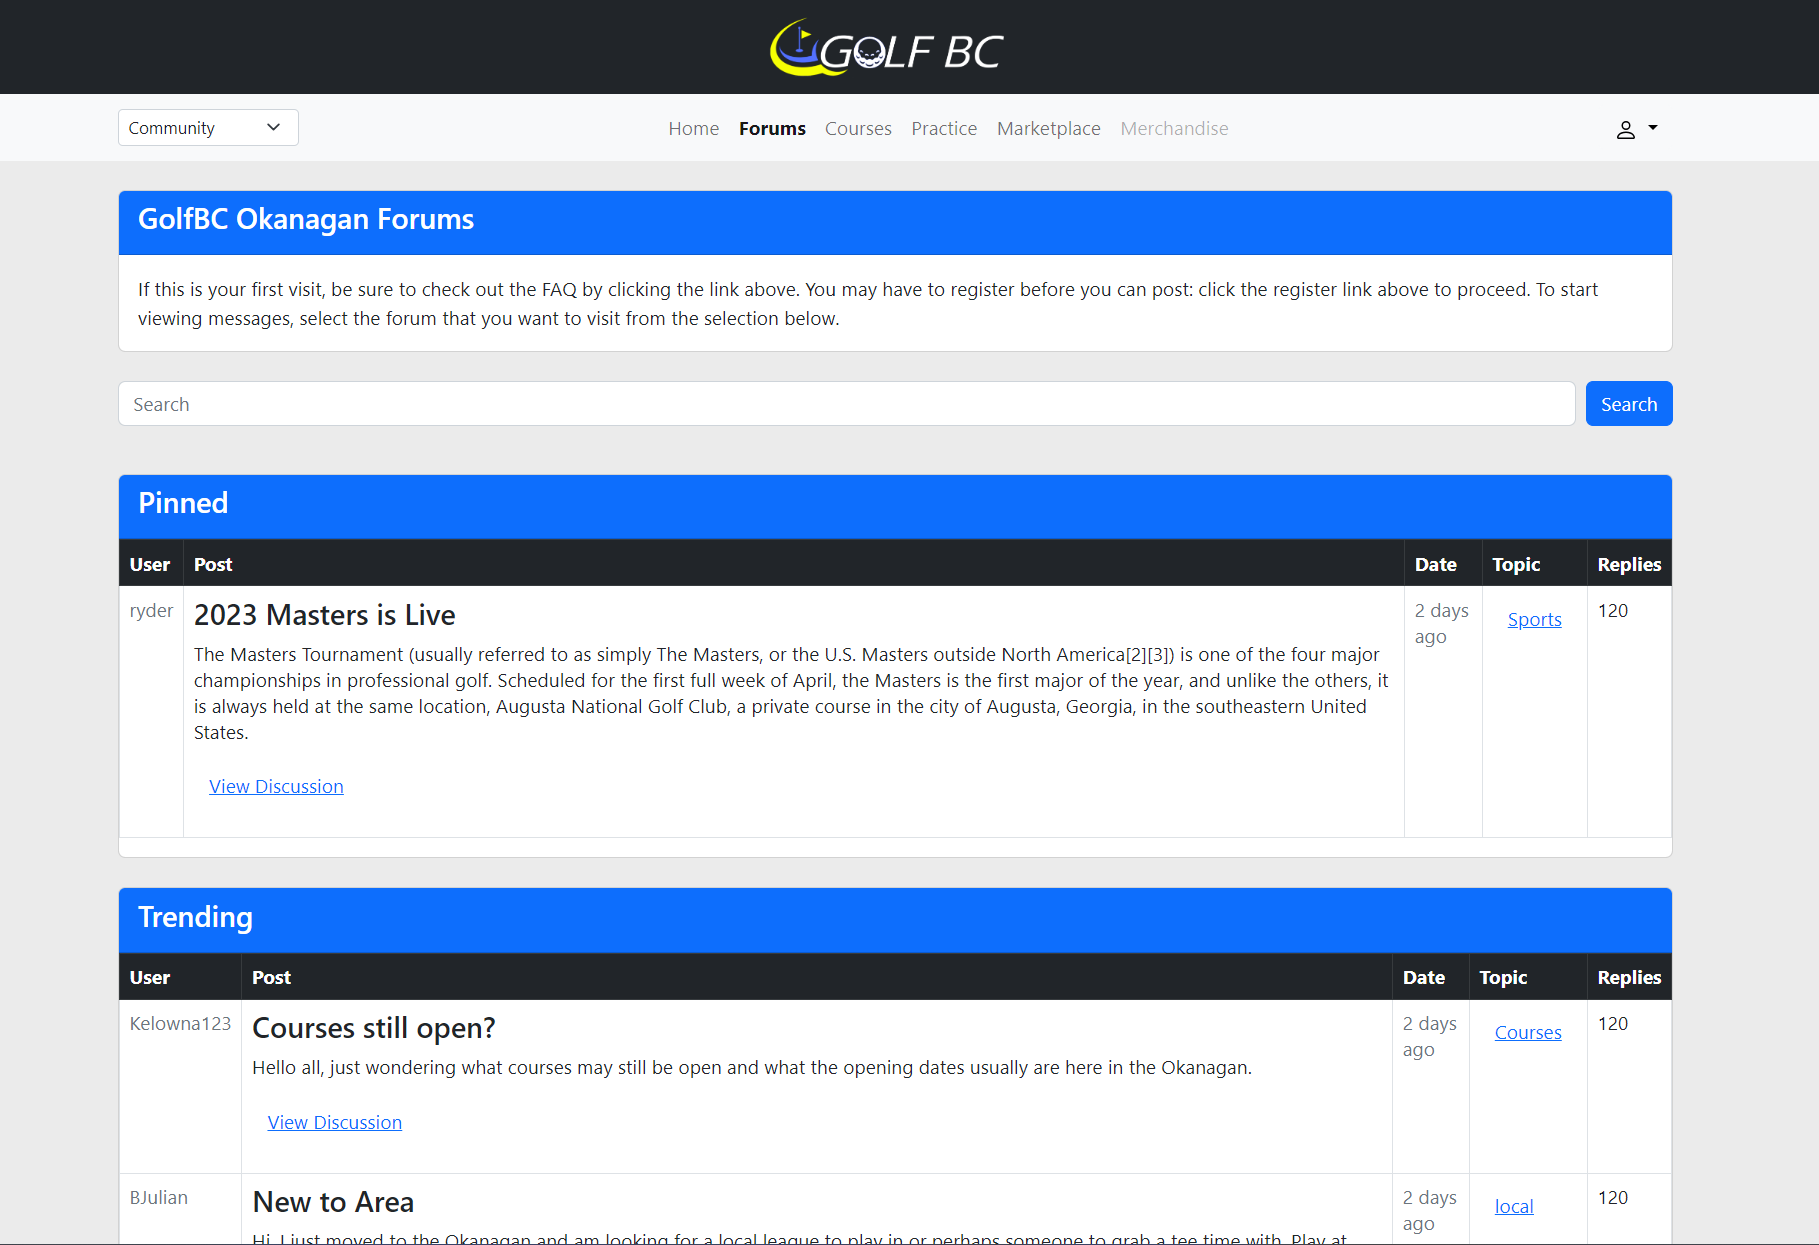
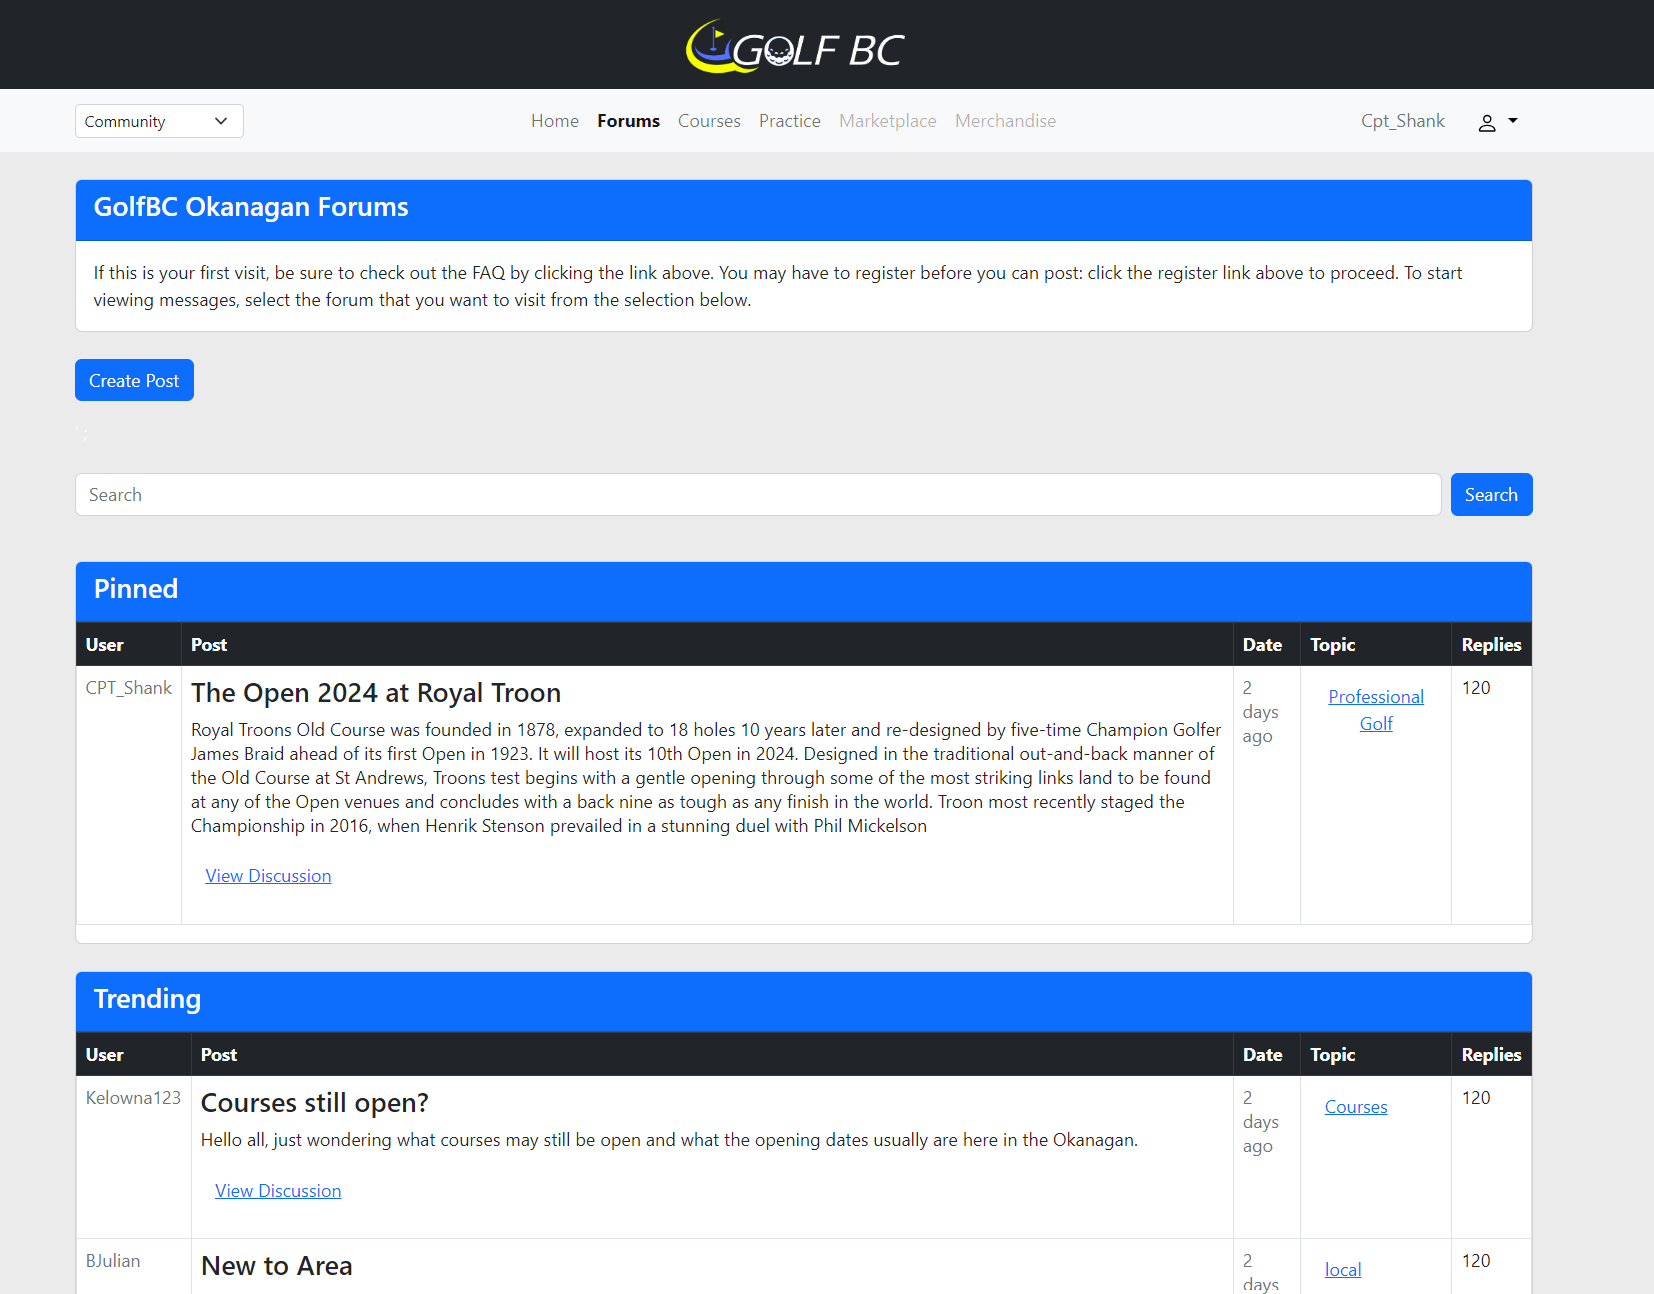
Update profile n forums
Changed the profile dashboard, not functional yet. View post and commenting updates.

diff --git a/client/profile.css b/client/profile.css
@@ -1,0 +1,125 @@
+body{margin-top:20px;
+    background:#eee;
+    }
+    .details{
+        font-weight: bold;
+    }
+    .profile-widget {
+      position: relative;
+    }
+    .profile-widget .image-container {
+      background-size: cover;
+      background-position: center;
+      padding: 190px 0 10px;
+    }
+    .profile-widget .image-container .profile-background {
+      height: auto;
+    }
+    .profile-widget .image-container .avatar {
+      width: 240px;
+      height: 240px;
+      border-radius: 50%;
+      margin: 0 auto -60px;
+      display: block;
+    }
+    .profile-widget .details {
+      padding: 50px 15px 15px;
+      text-align: center;
+    }
+    
+    /* Component: Mini Profile Widget */
+    .mini-profile-widget .image-container .avatar {
+      width: 180px;
+      height: 180px;
+      display: block;
+      margin: 0 auto;
+      border-radius: 50%;
+      background: white;
+      padding: 4px;
+      border: 1px solid #dddddd;
+    }
+    .mini-profile-widget .details {
+      text-align: center;
+    }
+    
+    /* Component: Panel */
+    .panel {
+      border-radius: 0;
+      margin-bottom: 30px;
+      width: 100%;
+    }
+    .panel.solid-color {
+      color: white;
+    }
+    .panel .panel-heading {
+      border-radius: 0;
+      position: relative;
+    }
+    .panel .panel-heading > .controls {
+      position: absolute;
+      right: 10px;
+      top: 12px;
+    }
+    .panel .panel-heading > .controls .nav.nav-pills {
+      margin: -8px 0 0 0;
+    }
+    .panel .panel-heading > .controls .nav.nav-pills li a {
+      padding: 5px 8px;
+    }
+    .panel .panel-heading .clickable {
+      margin-top: 0px;
+      font-size: 12px;
+      cursor: pointer;
+    }
+    .panel .panel-heading.no-heading-border {
+      border-bottom-color: transparent;
+    }
+    .panel .panel-heading .left {
+      float: left;
+    }
+    .panel .panel-heading .right {
+      float: right;
+    }
+    .panel .panel-title {
+      font-size: 16px;
+      line-height: 20px;
+    }
+    .panel .panel-title.panel-title-sm {
+      font-size: 18px;
+      line-height: 28px;
+    }
+    .panel .panel-title.panel-title-lg {
+      font-size: 24px;
+      line-height: 34px;
+    }
+    .panel .panel-body {
+      font-size: 13px;
+    }
+    .panel .panel-body > .body-section {
+      margin: 0px 0px 20px;
+    }
+    .panel .panel-body > .body-section > .section-heading {
+      margin: 0px 0px 5px;
+      font-weight: bold;
+    }
+    .panel .panel-body > .body-section > .section-content {
+      margin: 0px 0px 10px;
+    }
+    .bg2 {
+      background-image: url('images/courses/9.jpg');
+      background-position: center;
+    }
+    
+    
+    
+    
+    .btn-blue {
+      background-color: #3498db;
+      border-color: #3498db;
+      color: white;
+    }
+    .btn-blue:hover,
+    .btn-blue:visited {
+      background-color: #2980b9;
+      color: white;
+    }

diff --git a/client/forums.php b/client/forums.php
@@ -18,6 +18,78 @@ require('../server/db_connect.php');
     </div>
 </div>
 <br>
+<div class = "text-light">
+<button class="btn btn-primary" type="button" data-bs-toggle="modal" data-bs-target="#xxx">Create Post</button>
+
+        <form>
+        <div class="modal fade" id="xxx" tabindex="-1" aria-labelledby="exampleModalLabel" aria-hidden="true">
+        <div class="modal-dialog modal-dialog-centered">
+            <div class="modal-content bg-dark">
+            <div class="modal-header text-center">
+                <h1 class="modal-title fs-5 text-center w-100" id="exampleModalLabel">Tower Ranch</h1>
+                <button type="button" class="btn-close" data-bs-dismiss="modal" aria-label="Close"></button>
+            </div>
+            <div class="modal-body">
+                <div class = "rating mb-3">
+                    <button id = "1" class="btn m-0 p-0" type="button" value ="1">
+                    <i class="bi bi-star"></i>
+                    <i class ="bi bi-star-fill"></i>
+                    </button>
+                    <button id = "2" class="btn m-0 p-0" type="button" value ="2">
+                    <i class="bi bi-star"></i>
+                    <i class ="bi bi-star-fill"></i>
+                    </button>
+                    <button id = "3" class="btn m-0 p-0" type="button" value ="3">
+                    <i class="bi bi-star"></i>
+                    <i class ="bi bi-star-fill"></i>
+                    </button>
+                    <button id = "4" class="btn m-0 p-0" type="button" value ="4">
+                    <i class="bi bi-star"></i>
+                    <i class ="bi bi-star-fill"></i>
+                    </button>
+                    <button id = "5" class="btn m-0 p-0" type="button" value ="5">
+                    <i class="bi bi-star"></i>
+                    <i class ="bi bi-star-fill"></i>
+                    </button>
+                </div>
+                <input type="hidden" id="finalRate" value="" class="form-control" required>
+                <input type="hidden" id="courseId" value="6" class="form-control" required>
+                <input type="hidden" id="userId" value="ryderv" class="form-control" required>
+                    <div>
+                        <label for="reviewComments" class="form-label"></label>
+                        <textarea maxlength="255" class="form-control bg-dark text-light" id="reviewComments" rows="3" placeholder="Comments regarding course."></textarea>
+                    </div>
+                    <div class=" mt-1 form-text fs-6 text-light text-end">ryderv</div>
+                    <div class="alert alert-danger" role="alert" hidden="hidden" id="failedReview"></div>
+                </div>
+                <div class="modal-footer">
+                    <button type="button" class="btn btn-secondary" id="close" data-bs-dismiss="modal">Close</button>
+                    <button type="button" id = "sub" class="btn btn-primary">Submit</button>
+                </div>
+                </div>
+            </div>
+            </div>
+</form>' ;
+      <!--
+             <div class="modal fade" id="xxx" tabindex="-1" aria-labelledby="exampleModalLabel" aria-hidden="true">
+        <div class="modal-dialog modal-dialog-centered">
+            <div class="modal-content bg-dark">
+            <div class="modal-header text-center">
+                <button type="button" class="btn-close" data-bs-dismiss="modal" aria-label="Close"></button>
+            </div>
+            <div class="modal-body text-center">
+                  <p>Must be logged in to create post.</p>
+                </div>
+                <div class="modal-footer">
+                  <a href = "login.php"><button type="button" class="btn btn-primary">Login</button></a>
+                  <button type="button" class="btn btn-secondary" data-dismiss="modal">Close</button>
+                </div>
+              </div>
+            </div>
+          </div> ';
+        }?> -->
+</div>
+<br>
 <div style = "">
         <form method="post" action="searchForum.php" class="d-flex" role="search">
           <input class="form-control me-2" name = "search" type="search" placeholder="Search" aria-label="Search">

diff --git a/client/profile.php b/client/profile.php
@@ -1,3 +1,4 @@
+<link rel="stylesheet" href= "profile.css">
 <?php 
 error_reporting(E_ALL);
 ini_set('display_errors','0');
@@ -8,9 +9,6 @@ if ($error != null){
     $output ="<span> Unable to connect to database <span>" .$error;
     exit($output);
 }
-$username = "exampleuser";
-  $name = "Johnny Appleseed";
-  $email = "example@gmail.com";
 /*
 $sql = "SELECT username,name,email FROM users WHERE username = '{$_SESSION['user']}'";
 $result = mysqli_query($connection, $sql);
@@ -26,26 +24,49 @@ mysqli_close($connection);
 //mysqli_close($connection);
 */
 ?> 
-<div class = "container-fluid">
-    <div class="row">
-        <div class = "col" style = "padding:10px;height:100%">
-            <div class="card" style="width: 18rem;">
-                <img class="card-img-top" src="Images/blank_profile1.jpg" alt="Card image cap">
-                <div class="card-body">
-                    <h5 class="card-title">Profile</h5>
-                </div>
-                <ul class="list-group list-group-flush">
-                    <li class="list-group-item"><b>Username: </b><span id="username"><?php echo $username ?></span></li>
-                    <li class="list-group-item"><b>Name: </b><span id="name"><?php echo $name ?></span></li>
-                    <li class="list-group-item"><b>Email: </b><span id="email"><?php echo $email ?></span></li>
-                    <li class="list-group-item"><b>Upload Profile Image: </b></li>
-                </ul>
-                <div class="card-body">
-                    <a href="" class="card-link">Delete Account</a>
+<link href="https://maxcdn.bootstrapcdn.com/font-awesome/4.3.0/css/font-awesome.min.css" rel="stylesheet">
+
+    <div class="container bg-light" style = "justify-content-center">
+        <div class="row">
+            <div class="col-sm-8 col-sm-offset-2" style = width:100%;">
+                <div class="panel panel-white profile-widget bg-dark text-light" style = "width:100%;">
+                    <div class="row">
+                        <div class="col-sm-12">
+                            <div class="image-container bg2">  
+                                <img src="images/blank_profile1.jpg" class="avatar" alt="avatar"> 
+                            </div>
+                        </div>
+                        <div class="col-sm-12">
+                            <div class="details" >
+                                <h4><?php echo $username ?><i class="fa fa-sheild"></i></h4>
+                                <div><?php echo $name ?></div>
+                                <div>Member Since: 2024</div>
+                                <div>Home Course: Kelowna Springs Golf Club</div>
+                            </div>
+                        </div>
+                    </div>
                 </div>
             </div>
         </div>
-        <div class = "col" style = "padding:10px">
+            
+        <nav class = "courseNav">
+            <ul class="nav nav-pills justify-content-center">
+        <li class="nav-item">
+            <button class="nav-link active" id="about" aria-current="page">Posts</button>
+        </li>
+        <li class="nav-item">
+            <button class="nav-link" id= "scorecard" >Reviews</button>
+        </li>
+        <li class="nav-item">
+            <button class="nav-link" id = "reviews">Listings</button>
+        </li>
+        <li class="nav-item">
+            <button class="nav-link" id = "reviews">Images</button>
+        </li>
+        </nav>
+        <br>
+
+    <div class = "container-fluid">
             <div class="card" style="width: 60rem;">
                 <div class="card-body">
                     <h5 class="card-title">Create Post</h5>
@@ -69,6 +90,8 @@ mysqli_close($connection);
     </div>
     <?php include '../server/getUserPosts.php'?>
 </div>
+
+
 
 <script type="text/javascript" src = "js/createPost.js"></script>
 <script src="https://cdn.jsdelivr.net/npm/@popperjs/core@2.11.6/dist/umd/popper.min.js" integrity="sha384-oBqDVmMz9ATKxIep9tiCxS/Z9fNfEXiDAYTujMAeBAsjFuCZSmKbSSUnQlmh/jp3" crossorigin="anonymous"></script>

diff --git a/client/components/headerNav.php b/client/components/headerNav.php
@@ -3,12 +3,14 @@
 session_start(); ?>
 <?php if (isset($_SESSION['user'])) {
   include('../server/db_connect.php');
-  $result = mysqli_query($connection, "SELECT username FROM users WHERE username = '$_SESSION[user]'");
+  $result1 = mysqli_query($connection, "SELECT username FROM users WHERE username = '$_SESSION[user]'");
+  $result2 = mysqli_query($connection, "SELECT name FROM users WHERE username = '$_SESSION[user]'");
   //$adminPriv = mysqli_query($connection, "SELECT admin FROM users WHERE username = '$_SESSION[user]'");
-  if (!$result) {
+  if (!$result1) {
     echo "Error: " . mysqli_error($connection);
   }
-  $username = mysqli_fetch_assoc($result)['username'];
+  $username = mysqli_fetch_assoc($result1)['username'];
+  $name = mysqli_fetch_assoc($result2)['name'];
   //$isAdmin = mysqli_fetch_assoc($adminPriv)['admin'];
 } ?>
 <!DOCTYPE html>
@@ -57,7 +59,7 @@ session_start(); ?>
             <a class="nav-link" href="practice.php" target="_top" aria-current="page">Practice</a>
             </li>
             <li class="nav-item">
-            <a class="nav-link" href="marketplace.php" target="_top" aria-current="page">Marketplace</a>
+            <a class="nav-link disabled" href="marketplace.php" target="_top" aria-current="page">Marketplace</a>
             </li>
             <li class="nav-item">
             <a class="nav-link disabled" href="" target="_top" aria-current="page">Merchandise</a>

diff --git a/client/viewPost.php b/client/viewPost.php
@@ -61,7 +61,7 @@ empty($comments) ? $isArray = false : $isArray = true;
                                         <div class="card-body"> 
                                         <p class = "card-text">'.$comment['content'].'</p> 
                                     </div>
-                                    <div class="card-footer text-muted"><span>2 days ago</span><span class = "float-end">Commented by: '.$user.'</span></div>
+                                    <div class="card-footer text-muted"><span>2 days ago</span><span class = "float-end">Commented by: '.$comment['user'].'</span></div>
                                     </div>
                                     </div>';
                             }
@@ -81,7 +81,7 @@ empty($comments) ? $isArray = false : $isArray = true;
                             echo '<input type="hidden" id="postId" class="form-control" value ="'.$id.'">'; ?>
                             <button type="button" id = "postComment" class="btn btn-primary" style = "margin:10px">Comment</button> 
 
-                            <div class="alert alert-danger" role="alert" id="failedComment"></div>
+                            <div hidden class="alert alert-danger" role="alert" id="failedComment"></div>
                             
                         </div>
                     </form>

diff --git a/server/getPinned.php b/server/getPinned.php
@@ -2,7 +2,7 @@
 include('../server/db_connect.php');
 ?>
 <?php 
-$posts = mysqli_fetch_all(mysqli_query($connection, "SELECT * FROM posts WHERE user = 'ryder';"), MYSQLI_ASSOC);
+$posts = mysqli_fetch_all(mysqli_query($connection, "SELECT * FROM posts WHERE user = 'CPT_Shank';"), MYSQLI_ASSOC);
 mysqli_close($connection);
 empty($posts) ? $isArray = false : $isArray = true;
                         if ($isArray) {

diff --git a/README.md b/README.md
@@ -10,6 +10,8 @@ The information I'm aiming to provide is a homepage with community updates, arti
 The forum section is a way to bring the local golf community together from events and swing help, to club talk and finding new friends to play with. 
 
 ![image](forums.png)
+![image](viewPost.png)
+
 
 ## Courses
 The courses section that has a list of all courses within the area, with filtering and review functionalities, and a page for each course containing all its information. 
@@ -32,4 +34,5 @@ Of course there will always be other local options to use as a way of finding ne
 Each user will have there own account, used for postings to forums, marketplace etc. I also aim to have customization for each where you can upload photos, display your gear and scores if you wish. 
 
 ![image](login.png)
+![image](profile.jpg)
 
